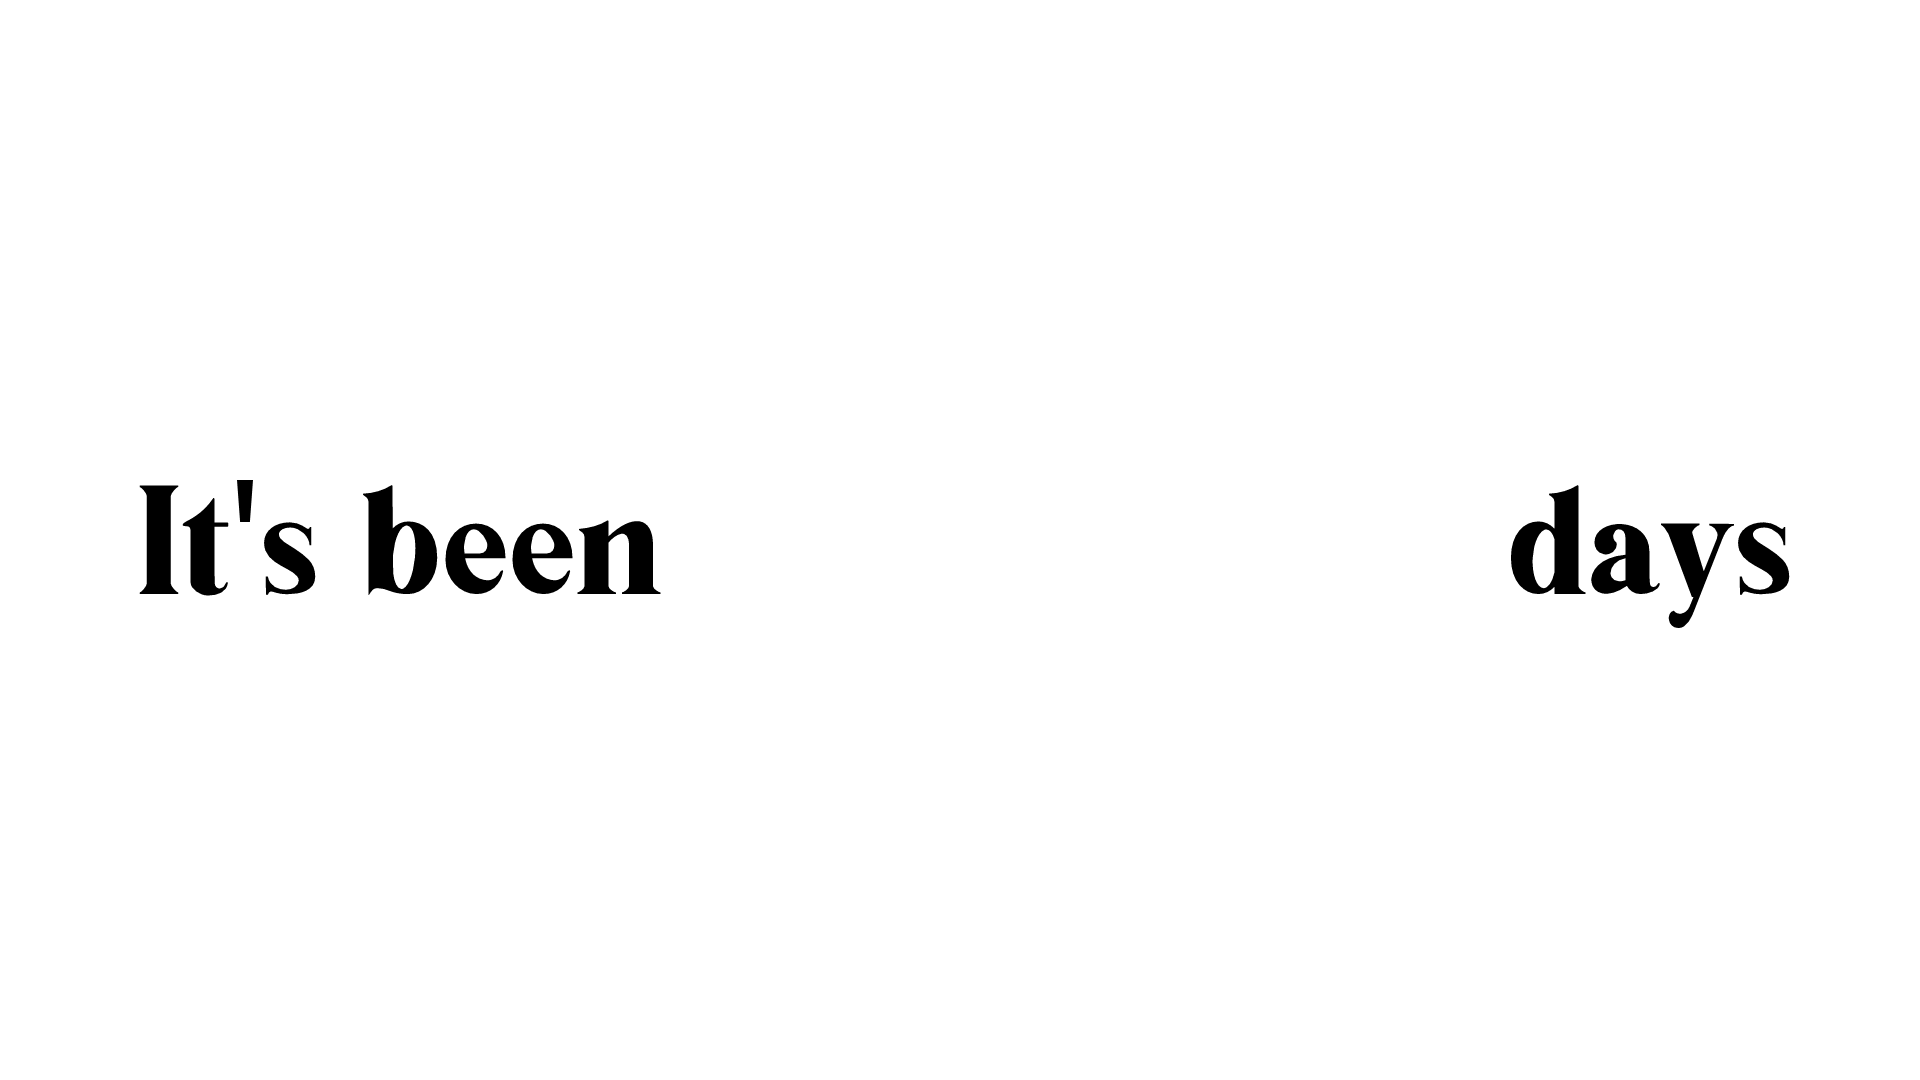
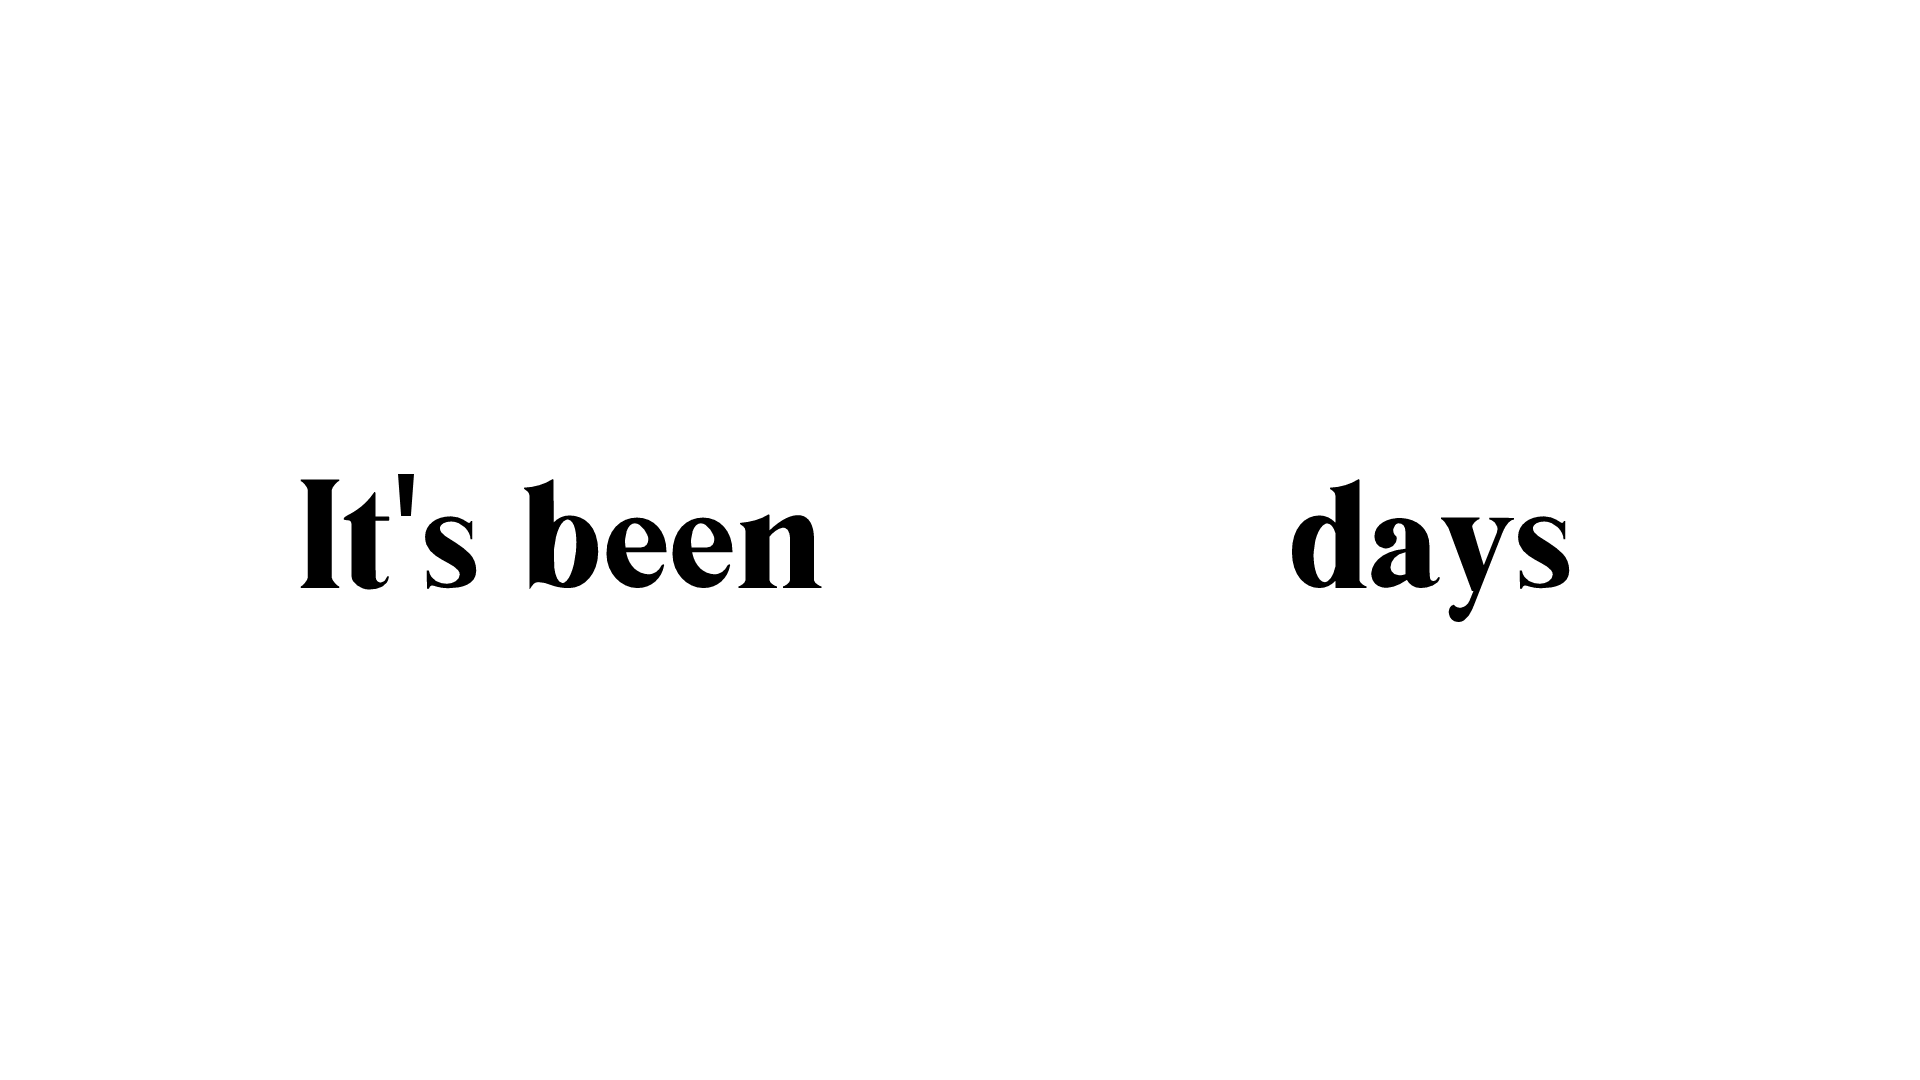
overflow-x

Changed region(s): [[0.0625, 0.4278, 0.4375, 0.55], [0.6562, 0.4278, 0.9375, 0.5806]]

diff --git a/css/style.css b/css/style.css
@@ -12,6 +12,10 @@
   position: relative;
 }
 
+body {
+  overflow-x: hidden;
+}
+
 section {
   height: 100vh;
   font-size: 38px;
@@ -110,7 +114,7 @@ section:nth-child(3) {
   text-align: right;
 }
 
-.newCTEXT{
+.newCTEXT {
   background-color: #eee;
 }
 
@@ -302,9 +306,15 @@ body {
   font-size: 100px;
   font-weight: 800;
   text-align: center;
-  color: rgb(255, 255, 255);
+  color: rgb(0, 0, 0);
   text-shadow: 3px 3px 10px rgba(0, 0, 0, 0.2),
     -3px -3px 10px rgba(255, 255, 255, 1);
+}
+
+#day-1 {
+  color: black;
+  font-size: 120px;
+  text-decoration: underline;
 }
 
 .digital-clock > div.hour::after,
@@ -385,11 +395,11 @@ body {
 
 .color-change {
   background-color: #1b1b1b !important;
-  transition: background-color 1.0s ease;
+  transition: background-color 1s ease;
 }
 .color-change2 {
   background-color: #1b1b1b !important;
-  transition: background-color 1.0s ease;
+  transition: background-color 1s ease;
 }
 
 .newCTEXT {
@@ -444,7 +454,6 @@ body {
 .section > strong {
   display: inline;
 }
-
 
 #section10 {
   background: #eee;
